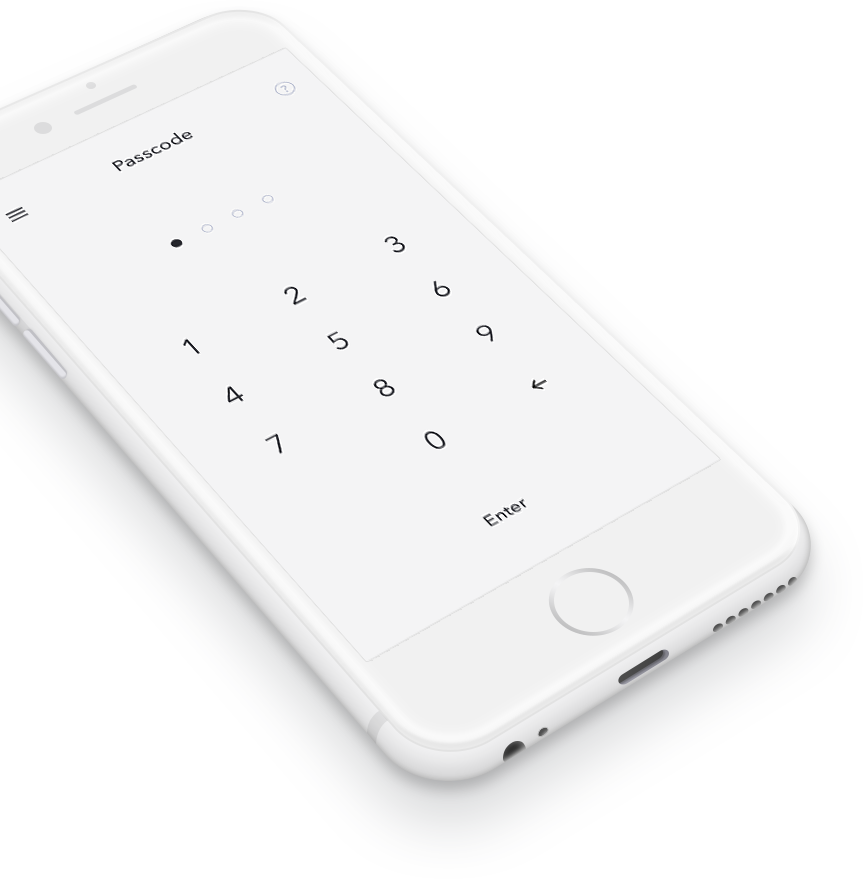
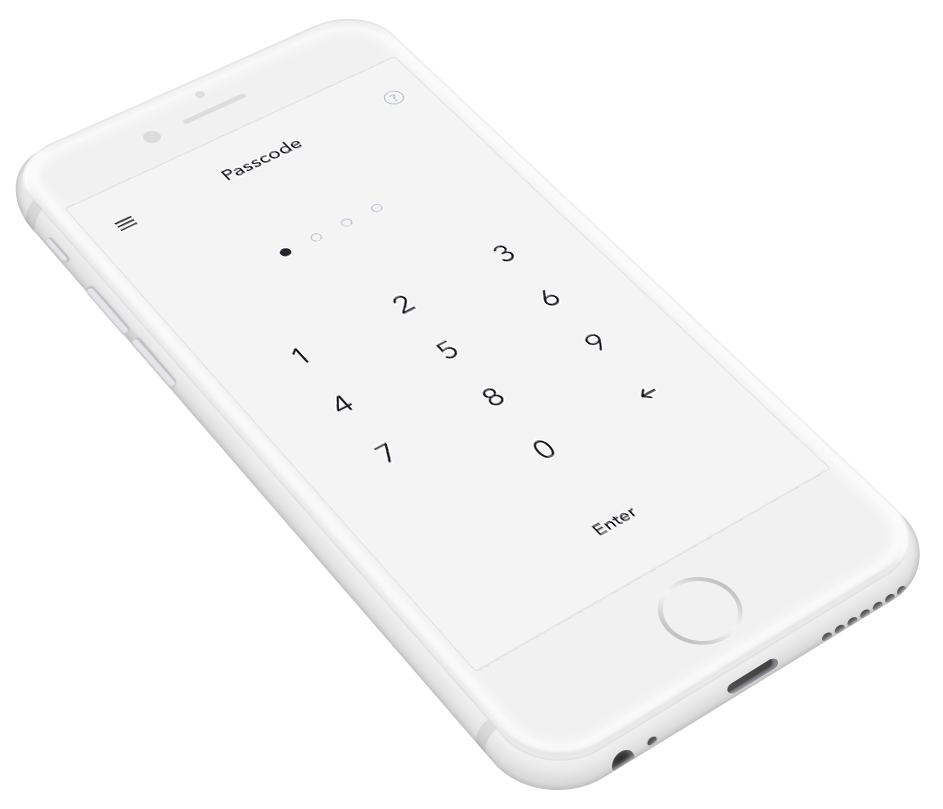
refactoring app-protection

diff --git a/src/scss/components/app-protection.scss b/src/scss/components/app-protection.scss
@@ -1,38 +1,91 @@
 .app-protection {
-  height: max-content;
+  height: 40rem;
+  max-height: 1000px;
   margin: 5rem 0;
+  @media (max-width: 1024px) {
+    height: 30rem;
+  }
+  @media (max-width: 850px) {
+    height: 25rem;
+  }
+  @include for-size(tablet) {
+    display: flex;
+    justify-content: center;
+    align-items: center;
+    flex-direction: column;
+  }
 
   &__background {
-    height: 55vw;
+    height: 40rem;
     background-image: url("../images/iPhone-6.png");
     background-repeat: no-repeat;
     background-size: contain;
+    position: absolute;
+    width: 55%;
+    z-index: -10;
+    background-position: -3.8rem 0;
+    max-height: 800px;
+    @media (min-width: 1300px) {
+      background-position: 75%;
+    }
+    @media (max-width: 1024px) {
+      height: 30rem;
+      width: 50%;
+    }
+    @media (max-width: 850px) {
+      height: 25rem;
+    }
+    @include for-size(tablet) {
+      width: 80%;
+      background-position: center;
+    }
   }
 
   &__content-wrap {
     display: flex;
     justify-content: flex-end;
+    min-height: max-content;
+    overflow: hidden;
+    flex-wrap: wrap;
     height: 100%;
+    @include for-size(tablet) {
+      flex-direction: column;
+      padding: 60rem 10% 0 10%;
+    }
   }
 
-  &__content{
-    display:flex;
-    flex-direction:column;
+  &__content {
+    display: flex;
+    flex-direction: column;
     max-width: 40%;
-    padding: 10% 0%;
+    padding: 10% 0;
+    @media (max-width: 1300px) {
+      max-width: 45%;
+      padding: 9% 7% 0% 0;
+    }
+    @include for-size(tablet) {
+      padding: 0;
+      max-width: 100%;
+    }
   }
-  &__title{
+
+  &__title {
 
   }
-  &__article{
+
+  &__article {
     font-size: 1.25rem;
     line-height: 1.25;
     color: #8c8f94;
 
-    &--elem:not(:last-child){
-      margin-bottom:1.25rem;
+    &--elem:not(:last-child) {
+      margin-bottom: 1.25rem;
     }
   }
-
 }
 
+.shadow {
+  &__app-protection {
+    filter: drop-shadow(-12px 30px 30px rgba(106, 119, 145, 0.15)) drop-shadow(1px 7px 5px rgba(61, 61, 62, 0.35));
+  }
+}

diff --git a/src/index.html b/src/index.html
@@ -25,18 +25,18 @@
 
       <!-- Таня -->
       <section class="app-protection" id="app-protection">
-        <div class="app-protection__background">
-          <div class="container app-protection__content-wrap">
-            <div class="app-protection__content">
-              <h2 class="app-protection__title">Your day is protected</h2>
-              <article class="app-protection__article">
-                <p class="app-protection__article--elem" >There have not been any since we have lived here, said my mother.</p>
-                <p class="app-protection__article--elem"> We thought - Mr. Copperfield thought - it was quite a large rookery;
-                  but the nests were very old ones, and the birds have deserted them a long while.</p>
-              </article>
-            </div>
+        <div class="app-protection__background shadow__app-protection"></div>
+        <div class="container app-protection__content-wrap">
+          <div class="app-protection__content">
+            <h2 class="app-protection__title">Your day is protected</h2>
+            <article class="app-protection__article">
+              <p class="app-protection__article--elem" >There have not been any since we have lived here, said my mother.</p>
+              <p class="app-protection__article--elem"> We thought - Mr. Copperfield thought - it was quite a large rookery;
+                but the nests were very old ones, and the birds have deserted them a long while.</p>
+            </article>
           </div>
         </div>
+        </section>
 
       <!-- Макс -->
       <section class="map" id="map">
